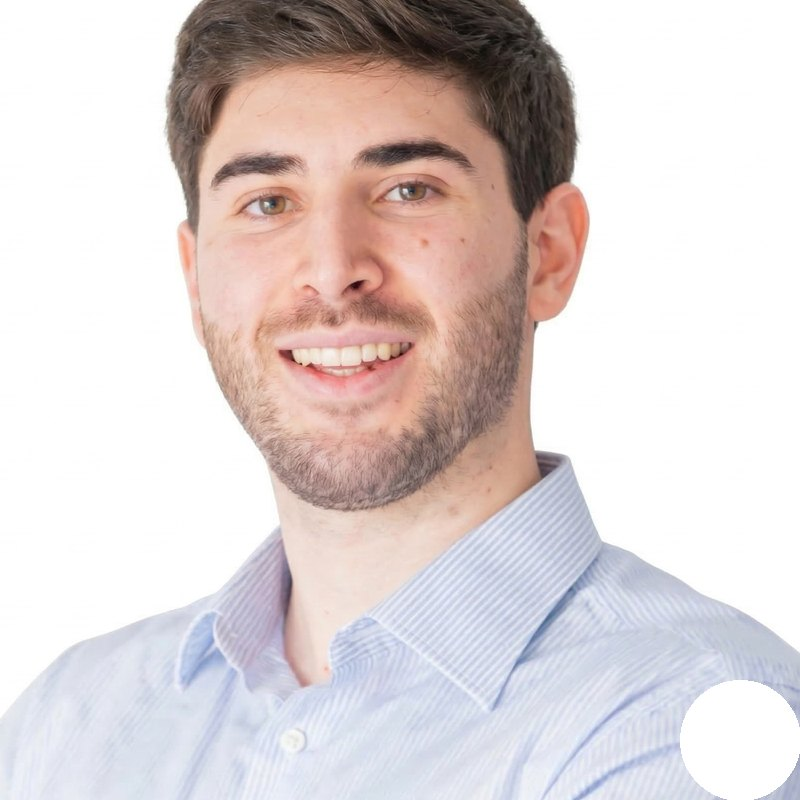
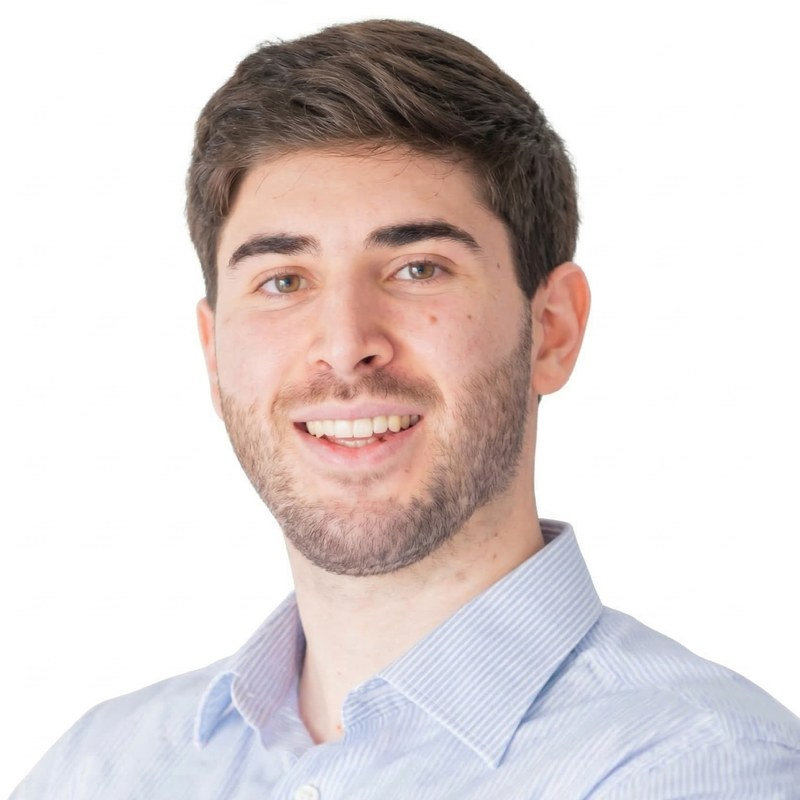
Crop founder photo (full head, no Gemini mark); Web App copy

diff --git a/index.html b/index.html
@@ -115,7 +115,7 @@
           <div class="product-body">
             <span class="product-index">02</span>
             <h3>Web App</h3>
-            <p>Applicazioni web intorno ai vostri processi reali. Interfacce chiare, flussi su misura, controllo senza forzature.</p>
+            <p>Applicazioni Web per i vostri processi reali. Interfacce chiare, flussi su misura, controllo senza forzature.</p>
             <ul>
               <li>Dashboard e aree riservate</li>
               <li>Portali clienti e fornitori</li>
@@ -205,7 +205,7 @@
       <article class="spec-card highlight about-row">
         <picture class="about-photo">
           <source srcset="images/lorenzo-iaccarino.webp" type="image/webp">
-          <img src="images/lorenzo-iaccarino.jpg" alt="Ing. Lorenzo Iaccarino" width="400" height="437">
+          <img src="images/lorenzo-iaccarino.jpg" alt="Ing. Lorenzo Iaccarino" width="800" height="800">
         </picture>
         <div class="about-copy">
           <span class="section-label">Chi siamo</span>
